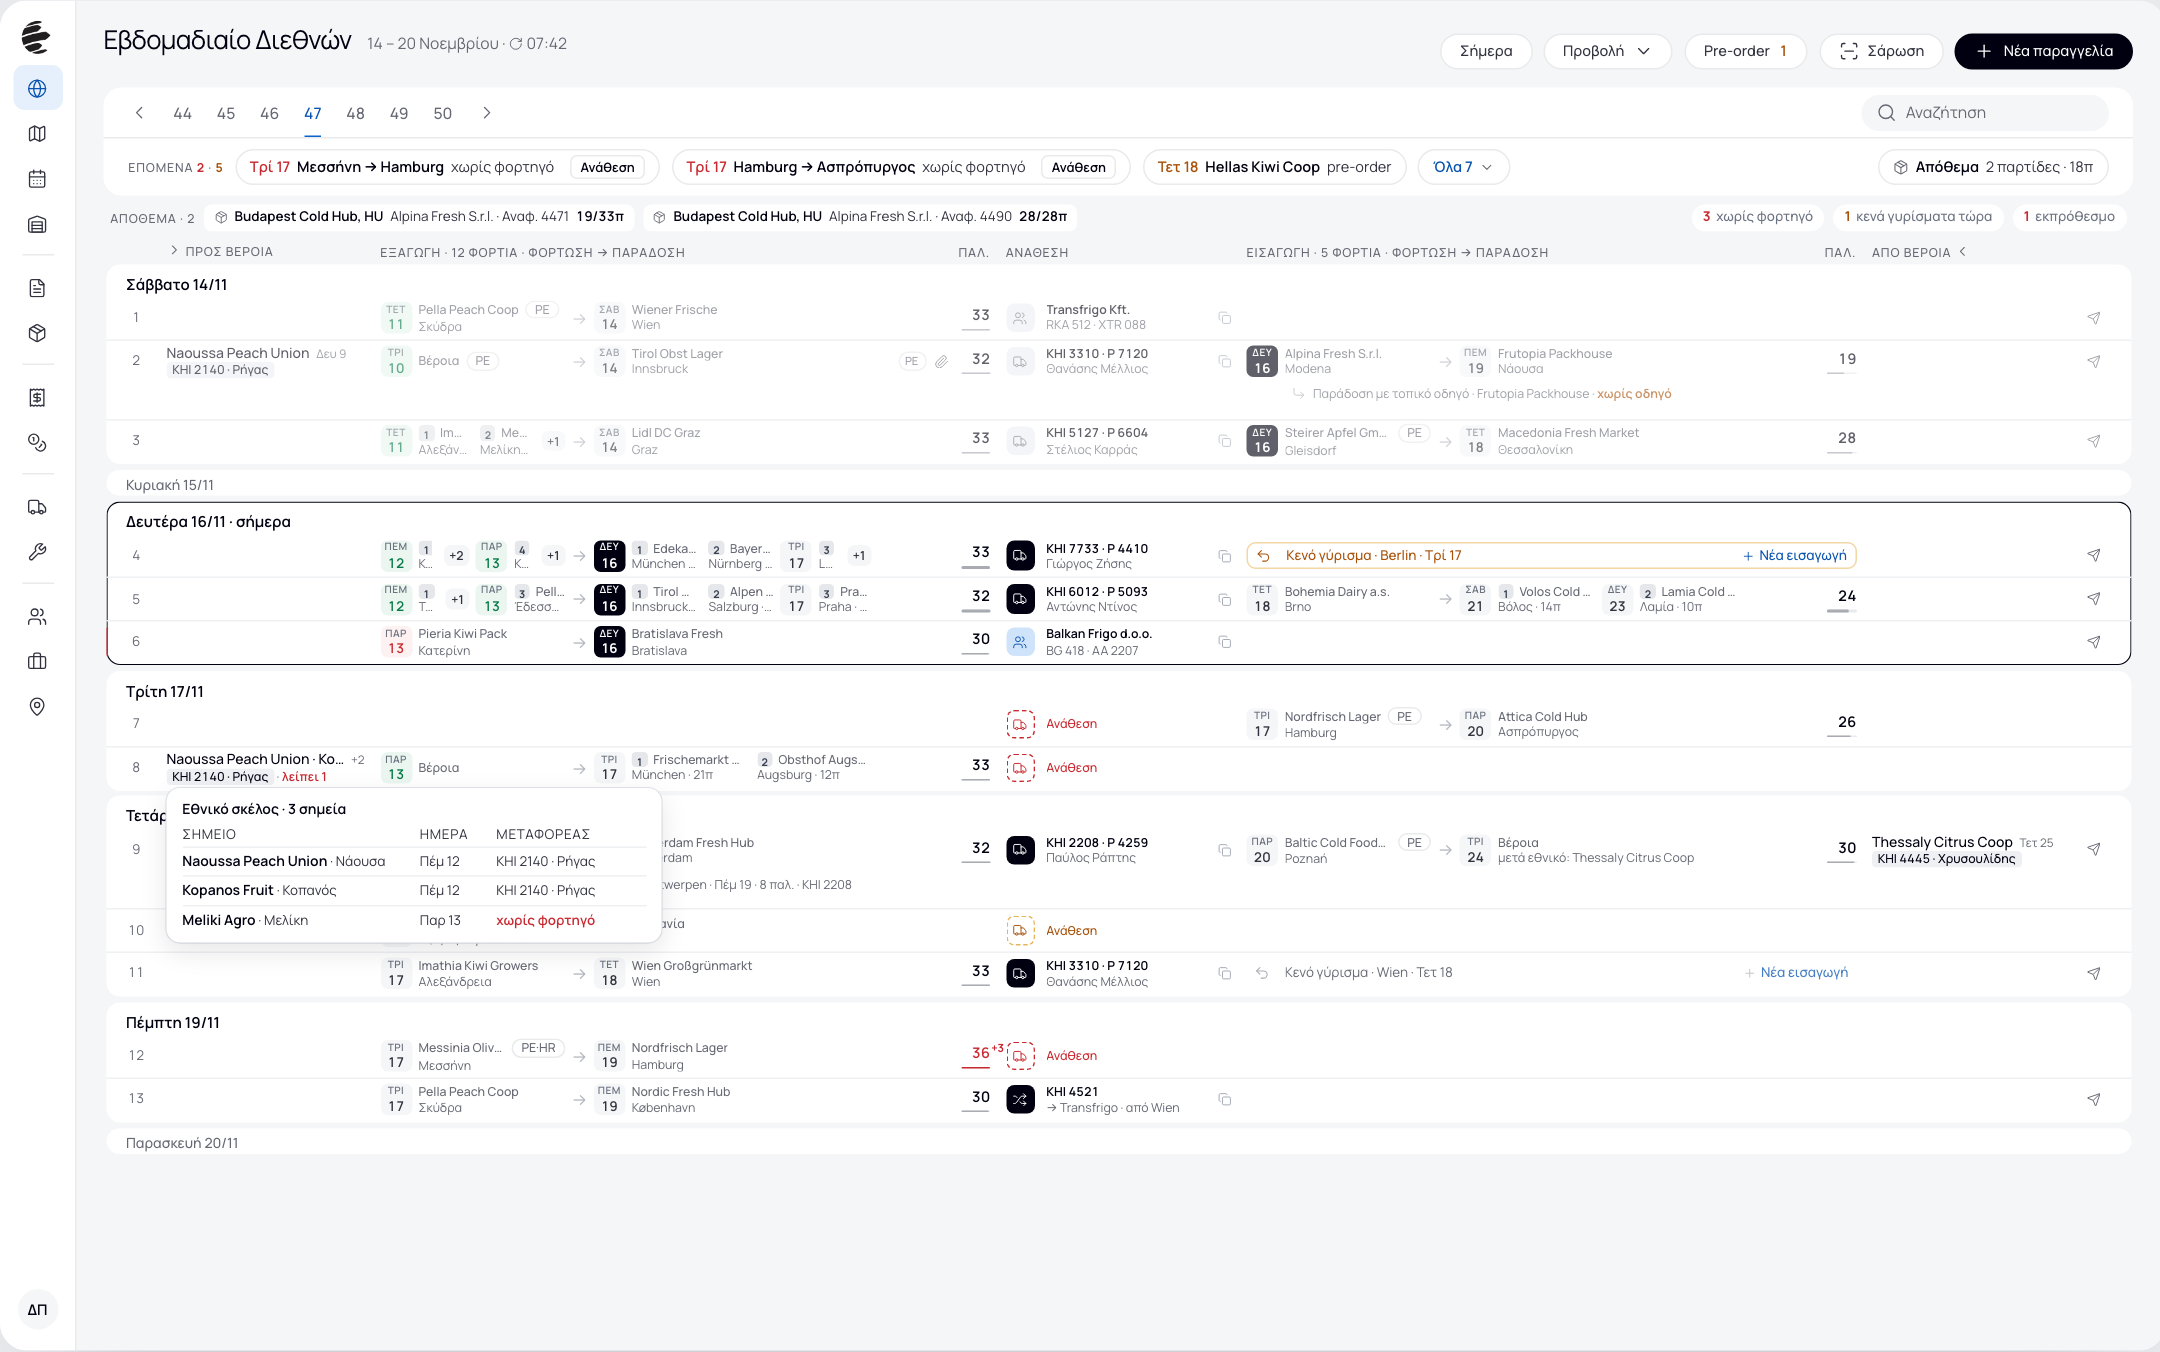
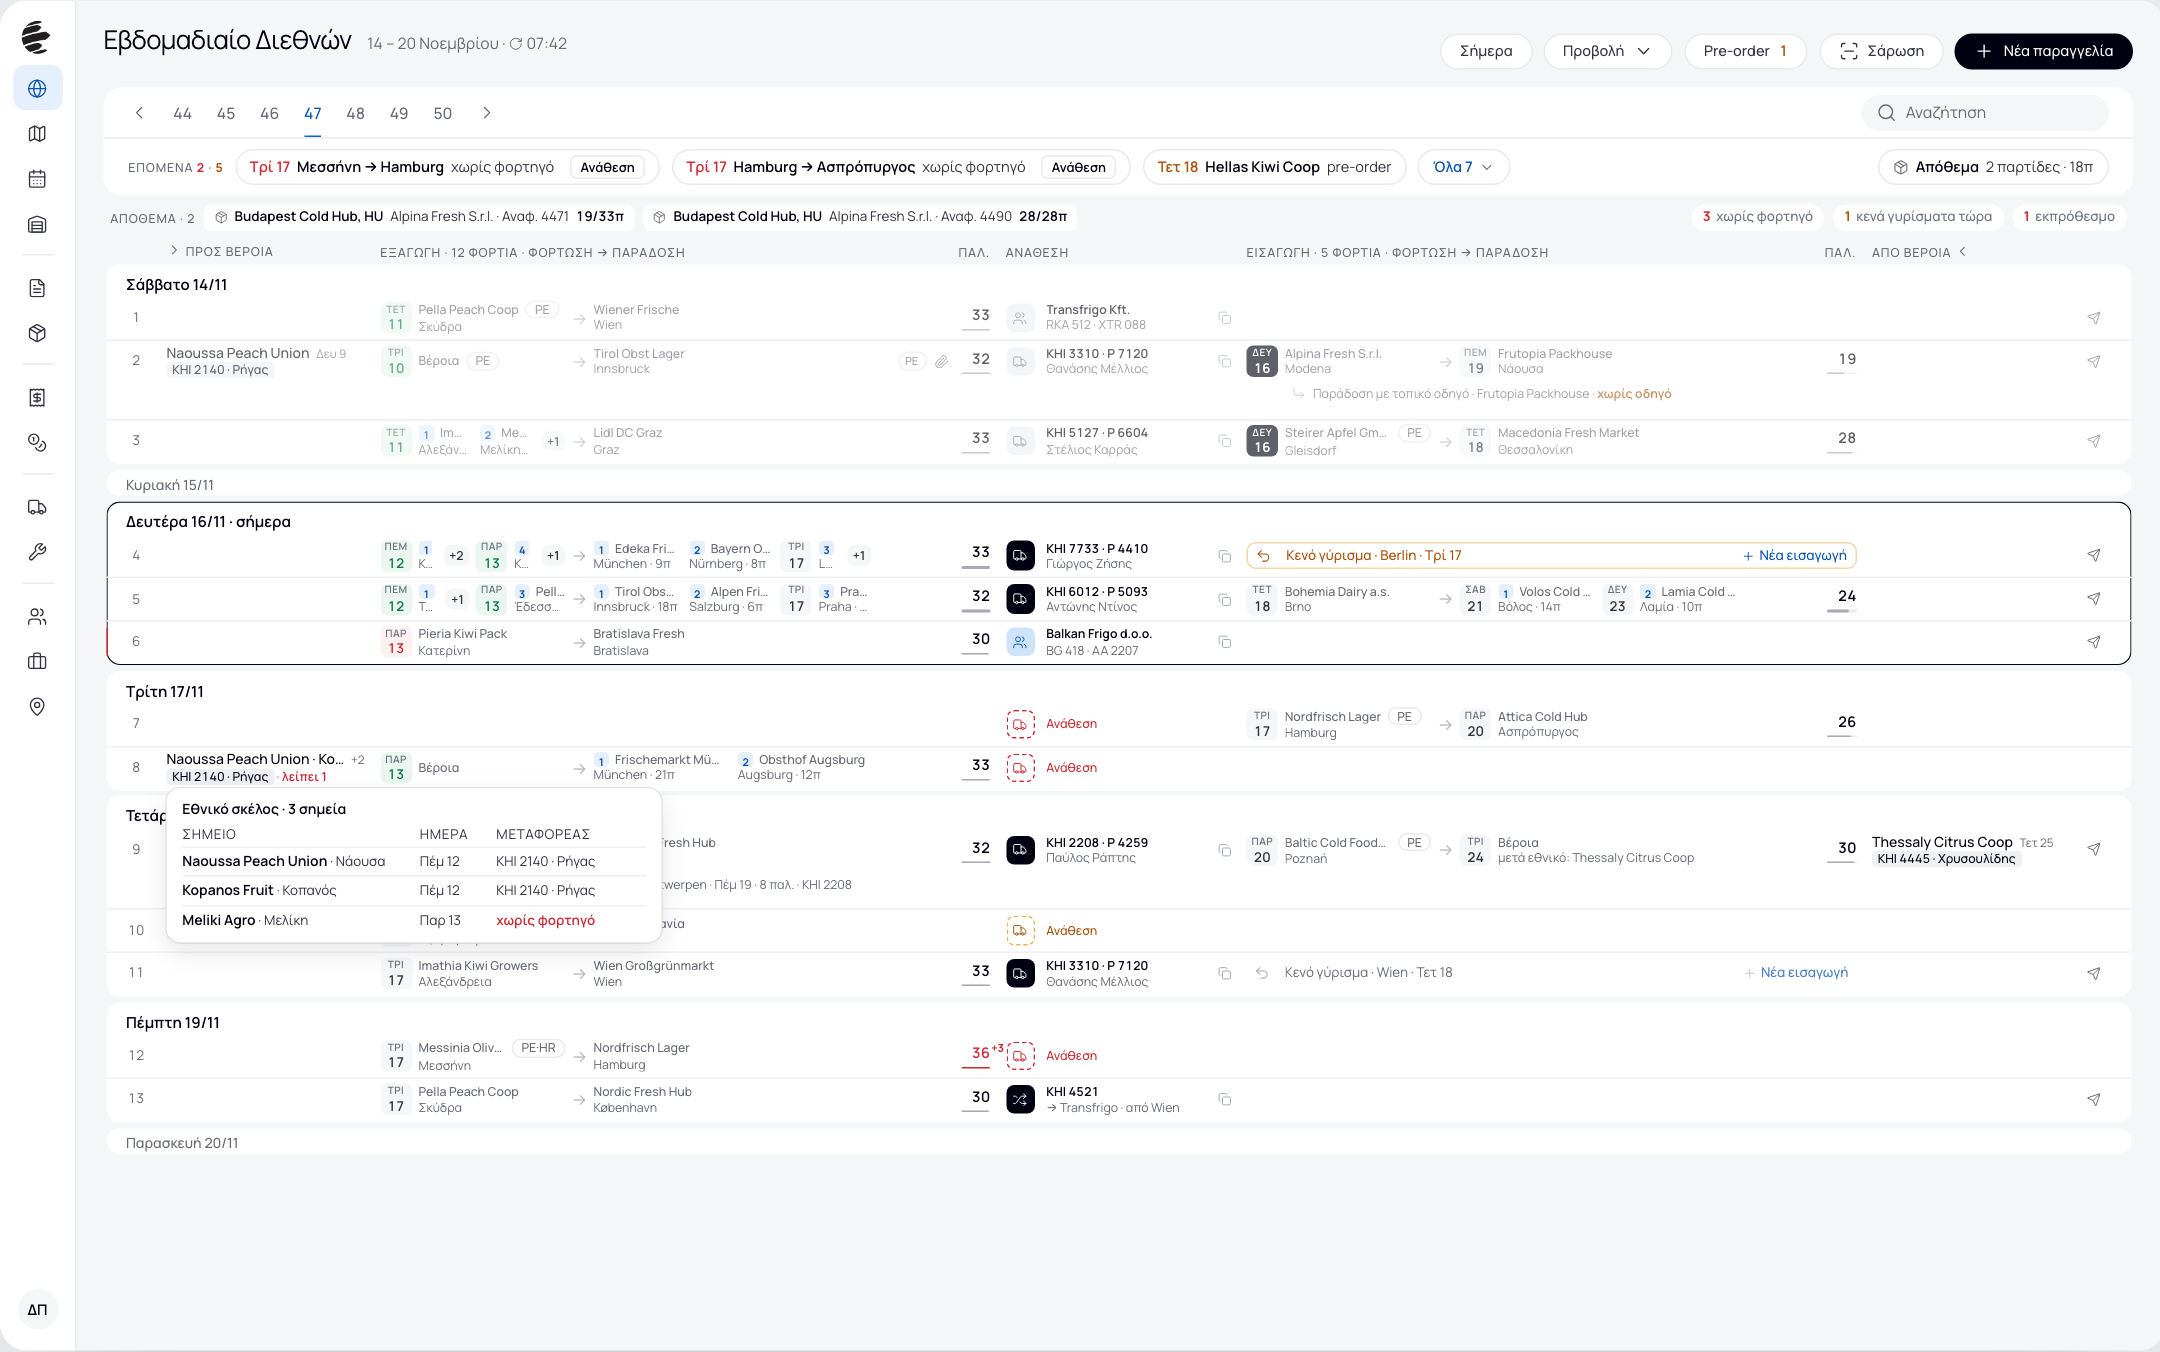
docs(redesign): Weekly International — delivery leaf only when its day differs from the group's day, today stays filled, point numbers in their own colour (owner 15/11)

diff --git a/docs/design/redesign-2026-11/index.html b/docs/design/redesign-2026-11/index.html
@@ -527,7 +527,7 @@ table.spec td b{color:var(--ink);font-weight:600}
 .w9gap{white-space:nowrap;min-width:0}.w9gap .el{overflow:hidden;text-overflow:ellipsis;min-width:0}.w9gap a{flex:none}.w9gap svg.lucide{flex:none}
 .w9snd{color:var(--help);display:grid;cursor:pointer}.w9snd svg.lucide{width:13px;height:13px}.w9row:hover .w9snd{color:var(--link)}
 .w9hf{flex:1 1 0;min-width:0;display:flex;align-items:center;gap:6px}
-.w9n{background:#E5E7EB;color:#374151}
+.w9n{background:var(--accent-bg);color:var(--link)}
 #f5 .lf i{font-size:8px;font-weight:600;color:#6B7280;letter-spacing:.04em}#f5 .lf.t i{color:#fff}#f5 .lf.lt{background:#FEF1F1}#f5 .lf.lt b{color:var(--red)}
 .w9ref{text-decoration:none;margin-left:6px;color:#8A8D96;font-size:10.5px;font-variant-numeric:tabular-nums}
 #f5 .w9gap.z{border:0;background:none;color:var(--help);font-weight:400;padding-left:0}#f5 .w9gap.z svg.lucide{color:#A9ABB3}#f5 .w9gap.z a{opacity:0}#f5 .w9row:hover .w9gap.z a{opacity:1}
@@ -547,7 +547,6 @@ table.spec td b{color:var(--ink);font-weight:600}
 .w9st{display:flex;align-items:center;gap:8px;padding:8px 6px 0;font-size:12px;white-space:nowrap;overflow:hidden}
 .w9lot{display:inline-flex;align-items:center;gap:6px;height:24px;padding:0 9px;border-radius:7px;background:#fff;color:var(--body)}.w9lot b{color:var(--ink);font-weight:600}.w9lot svg.lucide{width:12px;height:12px;color:var(--help)}
 .w9f{display:inline-flex;align-items:center;gap:5px;height:24px;padding:0 10px;border-radius:999px;background:#fff;color:#6B7280;font-weight:500;cursor:pointer}.w9f b{font-weight:700}.w9f.r b{color:var(--red)}.w9f.a b{color:var(--amber)}
-.alt2 .lf.t{background:#fff!important;box-shadow:inset 0 0 0 1.5px var(--primary)}.alt2 .lf.t i,.alt2 .lf.t b{color:var(--primary)!important}
 /* cycle 2 of critics (15/11) */
 .w9as b .el{color:inherit;font-weight:inherit}
 .w9hf:first-child{flex:2 1 0}.w9hf:last-child{flex:3 1 0}
@@ -1125,8 +1124,8 @@ const lfMany=a=>a.length>1?`<div class="lns">${a.map(x=>lfLn(x[1],'',x[0],x[2],x
   return v.length===1?`<div class="w9v"><b><span class="el">${v[0].n}</span><small>${v[0].d}</small>${nt}</b><span>${car(v[0])}</span>${vp}</div>`
    :`<div class="w9v"><b><span class="el">${v.map(x=>x.n).join(' · ')}</span><small>+${v.length-1}</small>${nt}</b><span>${car(v.find(x=>x.t)||v[0])}${tr.length>1?` +${tr.length-1}`:''}${miss?` · <em>λείπει ${miss}</em>`:''}</span>${vp}</div>`};
  /* at most two loading points and three deliveries are drawn in full; the rest show as +N and the whole list opens on hover.
-    skip = the day of the group the row sits under: with the 'leaf only when different' option that day's leaf is not repeated */
- const ALT=window.WK_ALT||{};
+    skip = the day of the group the row sits under: that day's leaf is not repeated on the deliveries (owner 15/11),
+    so a leaf on a delivery always means "this stop is on another day" */
  const grp=(a,load,cap0,skip)=>{const g=byDay(a);let cap=Math.max(cap0,g.length)-g.length;const sh=g.map(([d,p])=>{const k=Math.min(p.length-1,cap);cap-=k;return 1+k});
   return g.map(([d,p],i)=>`<div class="w9d" style="flex:${sh[i]} 1 0">${d?(skip&&dn(d)===skip?'':leaf(d,p.every(q=>q.done),load)):'<span style="width:28px;flex:none"></span>'}<div class="w9ps">${p.slice(0,sh[i]).map(q=>`<div class="w9p"><b>${a.length>1?`<em class="w9n">${a.indexOf(q)+1}</em>`:''}<span class="el">${q.n}</span>${tags(q.t||'')}</b><span>${OPEN&&/^από /.test(q.c)?'':q.c}${q.ref?`<u class="w9ref">${q.ref}</u>`:''}${q.p?` · ${q.p}π`:''}</span></div>`).join('')}${p.length>sh[i]?`<span class="w9m">+${p.length-sh[i]}</span>`:''}</div></div>`).join('')};
  const hov=(a,t)=>a.length>1?`<div class="vpop w9vp w9pp"><h5>${t} · ${a.length} σημεία</h5><div class="vpr vh"><span>Σημείο</span><span>Ημέρα</span><span style="text-align:right">Παλ.</span></div>${a.map((q,i)=>`<div class="vpr"><span><b>${i+1}. ${q.n}</b> · ${q.c}</span><span>${q.d}</span><span class="num" style="text-align:right">${q.p||''}</span></div>`).join('')}</div>`:'';
@@ -1139,7 +1138,7 @@ const lfMany=a=>a.length>1?`<div class="lns">${a.map(x=>lfLn(x[1],'',x[0],x[2],x
  const grid=()=>{const v=OPEN?'176px':'26px';G=`26px ${v} minmax(0,1fr) 92px 200px minmax(0,1fr) 92px ${v} 20px`};
  const sub=(l,r)=>`<div class="w9row sub" style="grid-template-columns:${G}"><span></span><span></span><div class="w9l2">${l||''}</div><span></span><span></span><div class="w9l2">${r||''}</div><span></span><span></span><span></span></div>`;
  const late=r=>r.ex&&r.ex.L.some(q=>q.d&&!q.done&&q.d!==TODAY&&dn(q.d)<dn(TODAY));
- const row=r=>`<div class="w9row ${late(r)?'late':''}" style="grid-template-columns:${G}"><span class="w9no num">${r.no}</span>${vcell(r.vTo,r.nat&&r.ex)}${r.ex?side(r.ex,ALT.leafDiff?r.sec:0):r.exTxt?txt(r.exTxt):E2}${asg(r.as)}${r.im?side(r.im):r.gap?`<div class="w9gap ${r.gapNow?'':'z'}" style="grid-column:span 2">${ic('undo-2')}<span class="el">Κενό γύρισμα · ${r.gap}</span><a>${ic('plus')}Νέα εισαγωγή</a><a class="alt">ή κομμάτι από απόθεμα</a></div>`:r.imTxt?txt(r.imTxt,r.imAdd,r.imAdd):E2}${vcell(r.vFrom,r.nat&&!r.ex)}${r.as[0]==='n'||r.as[0]==='am'?'<span></span>':`<span class="w9snd" title="Αποστολή στοιχείων στον οδηγό">${ic('send')}</span>`}</div>`
+ const row=r=>`<div class="w9row ${late(r)?'late':''}" style="grid-template-columns:${G}"><span class="w9no num">${r.no}</span>${vcell(r.vTo,r.nat&&r.ex)}${r.ex?side(r.ex,r.sec):r.exTxt?txt(r.exTxt):E2}${asg(r.as)}${r.im?side(r.im):r.gap?`<div class="w9gap ${r.gapNow?'':'z'}" style="grid-column:span 2">${ic('undo-2')}<span class="el">Κενό γύρισμα · ${r.gap}</span><a>${ic('plus')}Νέα εισαγωγή</a><a class="alt">ή κομμάτι από απόθεμα</a></div>`:r.imTxt?txt(r.imTxt,r.imAdd,r.imAdd):E2}${vcell(r.vFrom,r.nat&&!r.ex)}${r.as[0]==='n'||r.as[0]==='am'?'<span></span>':`<span class="w9snd" title="Αποστολή στοιχείων στον οδηγό">${ic('send')}</span>`}</div>`
   +(r.note?sub(r.note[0]&&ic('corner-down-right')+r.note[0],r.note[1]&&ic('corner-down-right')+r.note[1]):'');
  const NV={n:'Naoussa Peach Union',c:'Νάουσα'};
  const WK=[
@@ -1177,7 +1176,6 @@ const lfMany=a=>a.length>1?`<div class="lns">${a.map(x=>lfLn(x[1],'',x[0],x[2],x
  const st=document.createElement('div');st.className='w9st';
  const STOCK=window.WK_STOCK||[['Budapest Cold Hub, HU','Alpina Fresh S.r.l.','Αναφ. 4471','19/33π'],['Budapest Cold Hub, HU','Alpina Fresh S.r.l.','Αναφ. 4490','28/28π']];
  const strip=()=>`<span class="lbl">Απόθεμα · ${STOCK.length}</span>${STOCK.map(x=>`<span class="w9lot">${ic('package')}<b>${x[0]}</b>${x[1]} · ${x[2]} <b class="num">${x[3]}</b></span>`).join('')}<span style="flex:1"></span>${CNT.need?`<a class="w9f r"><b>${CNT.need}</b>χωρίς φορτηγό</a>`:''}${CNT.gap?`<a class="w9f a"><b>${CNT.gap}</b>κενά γυρίσματα τώρα</a>`:''}${CNT.late?`<a class="w9f r"><b>${CNT.late}</b>εκπρόθεσμο</a>`:''}`;
- if(ALT.todayOutline)box.classList.add('alt2');
  const DATA=window.WK_REAL||WK,ALL=DATA.flatMap(d=>d[2]),CNT={ex:ALL.filter(r=>r.ex).length,im:ALL.filter(r=>r.im).length,need:ALL.filter(r=>r.as[0]==='n').length,gap:ALL.filter(r=>r.gapNow).length,late:0};
  const draw=()=>{let no=0;grid();CNT.late=ALL.filter(late).length;st.innerHTML=strip();box.innerHTML=head()+`<div style="margin-top:-8px">${DATA.map(([t,c,rows])=>`<section class="day ${c}"><h3>${t}</h3>${rows.map(r=>row({...r,no:++no,sec:+(t.match(/ (\d+)\//)||[0,0])[1]})).join('')}</section>`).join('')}</div>`;if(window.lucide)lucide.createIcons()};
  box.addEventListener('click',e=>{if(e.target.closest('.w9vh')){OPEN=!OPEN;draw()}});draw();

diff --git a/docs/design/redesign-2026-11/parity/README.md b/docs/design/redesign-2026-11/parity/README.md
@@ -197,3 +197,5 @@
 **Veroia Switch και πάνελ Εθνικών (owner 15/11, βράδυ).** Στα φορτία μέσω Βέροιας το σημείο φόρτωσης του διεθνούς γράφει **«Βέροια»** και από κάτω «από <προμηθευτής>», όπως σήμερα· στην εισαγωγή που παραδίδει στη Βέροια: «Βέροια / μετά εθνικό: <παραλήπτης>». Η προηγούμενη απόδοση (προμηθευτής ως κύριο όνομα) ήταν λάθος ανάγνωση παλαιότερης απόφασης. Στο πάνελ Εθνικών προστέθηκε το **πινακάκι στο ποντίκι** (`shots/06-weekly-intl-veroia-hover.png`): όλα τα εθνικά σημεία, η ημέρα και ο μεταφορέας του καθενός, «χωρίς φορτηγό» με κόκκινο· ανοίγει και από το μικρό σημάδι όταν το πάνελ είναι κλειστό.
 
 **Τρίτος κύκλος κριτών (15/11, βράδυ): 8 και 8 στα 10** με τα πάνελ κλειστά (6,5 με ανοιχτά). Πέρασαν: έως δύο σημεία φόρτωσης και τρεις παραδόσεις ζωγραφίζονται ολόκληρα, τα υπόλοιπα ως «+N», και **πινακάκι στο ποντίκι με όλα τα σημεία** κάθε πλευράς· λωρίδα **«Απόθεμα»** με τις παρτίδες και **κουμπιά-φίλτρα** «χωρίς φορτηγό · κενά γυρίσματα τώρα · εκπρόθεσμο»· «Νέα εισαγωγή» στην ίδια θέση παντού· με το πάνελ Βέροιας ανοιχτό κρύβεται το «από <προμηθευτής>» που επαναλαμβανόταν· η αναφορά φαίνεται ολόκληρη. Δύο προτάσεις αναθεώρησης των κριτών υπάρχουν ως επιλογή (`window.WK_ALT`) και περιμένουν τον owner: φύλλο ημέρας στην παράδοση μόνο όταν διαφέρει από την ημέρα της ομάδας· το «σήμερα» ως φύλλο με περίγραμμα αντί για γεμάτο, για να μη μοιάζει με το τετράγωνο του φορτηγού. Ο owner είπε ότι ο τρόπος που φαίνεται ο συνεργάτης είναι εντάξει.
+
+**Αποφάσεις owner μετά τον τρίτο κύκλο (15/11, βράδυ).** Το φύλλο ημέρας στην παράδοση φαίνεται **μόνο όταν η ημέρα διαφέρει** από την ημέρα της ομάδας (ισχύει πλέον ως κανόνας, ο διακόπτης αφαιρέθηκε). Το «σήμερα» μένει **γεμάτο σκούρο με λευκά γράμματα**· το περίγραμμα που πρότεινε ο κριτής απορρίφθηκε. Η **αρίθμηση των σημείων** έχει δικό της χρώμα (γαλάζιο φόντο, μπλε αριθμός). Το πετρόλ απορρίφθηκε ως χρώμα· το χρώμα μένει ανοιχτό.
